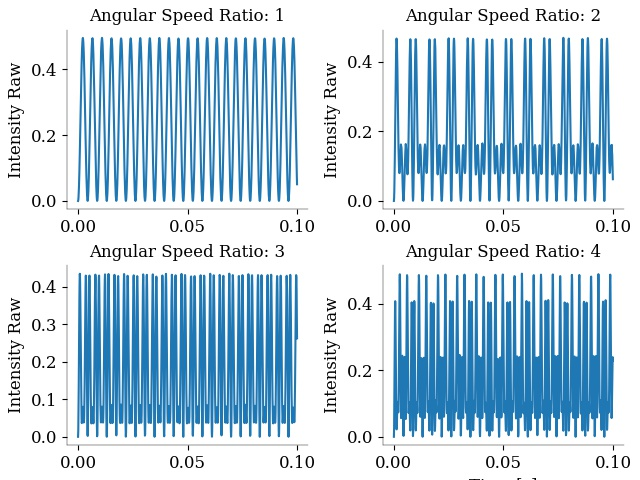
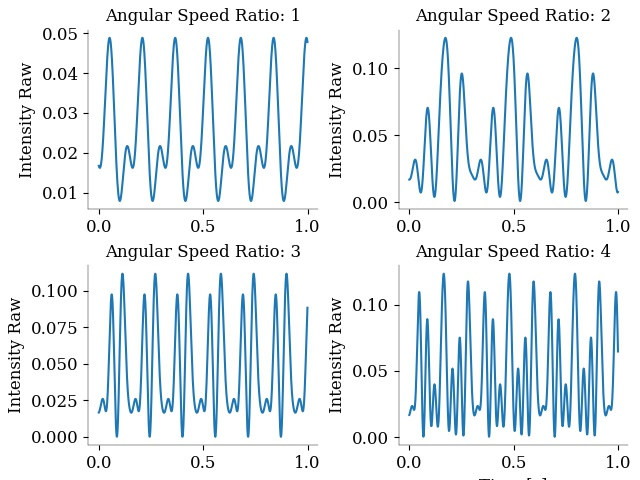
9th Edition: Structured some parts of code to make more readable.

diff --git a/muller_calculations.py b/muller_calculations.py
@@ -1,5 +1,9 @@
 from collections import defaultdict
+import matplotlib.pyplot as plt
 import numpy as np
+from tqdm import tqdm
+from numpy.linalg import inv
+from scipy import linalg
 
 
 class MullerOperators:
@@ -23,6 +27,26 @@ class MullerOperators:
         linear_polarizer = 0.5 * np.array(self.muller_matrix(self.pl_type))
 
         return linear_polarizer
+
+    def general_wave_plate(self):
+
+        gwp11 = np.cos(2*self.teta)**2 + (np.sin(2*self.teta)**2)*np.cos(self.sigma)
+        gwp12 = np.cos(2*self.teta)*np.sin(2*self.teta)*(1-np.cos(self.sigma))
+        gwp13 = np.sin(2*self.teta)*np.sin(self.sigma)
+
+        gwp21 = np.cos(2*self.teta)*np.sin(2*self.teta)*(1-np.cos(self.sigma))
+        gwp22 = np.sin(2*self.teta)**2 + (np.cos(2*self.teta)**2)*np.cos(self.sigma)
+        gwp23 = -np.cos(2*self.teta)*np.sin(self.sigma)
+
+        gwp31 = -np.sin(2*self.teta)*np.sin(self.sigma)
+        gwp32 = np.cos(2*self.teta)*np.sin(self.sigma)
+        gwp33 = np.cos(self.sigma)
+
+        gwp = np.array([[1, 0, 0, 0],
+                        [0, gwp11, gwp12, gwp13],
+                        [0, gwp21, gwp22, gwp23],
+                        [0, gwp31, gwp32, gwp33]], np.float64)
+        return gwp*0.5
 
     def rotation_matrix(self, sign) -> np.ndarray:
 
@@ -51,12 +75,22 @@ class MullerOperators:
         muller['LP_0'] = np.array([[1, 1, 0, 0],
                                    [1, 1, 0, 0],
                                    [0, 0, 0, 0],
-                                   [0, 0, 0, 0]], np.float64)
+                                   [0, 0, 0, 0]], np.float64)                     # Horizontal Linear Polarizer
 
-        muller['LP_90'] = np.array([[1, -1, 0, 0],
+        muller['LP_90'] = np.array([[1, -1, 0, 0],                                # Vertical Linear Polarizer
                                     [-1, 1, 0, 0],
                                     [0, 0, 0, 0],
                                     [0, 0, 0, 0]], np.float64)
+
+        muller['LP_-45'] = np.array([[1, 0, -1, 0],                               # -45 transmission Linear Polarizer
+                                     [0, 0, 0, 0],
+                                     [-1, 0, 1, 0],
+                                     [0, 0, 0, 0]], np.float64)
+
+        muller['LP_+45'] = np.array([[1, 0, 1, 0],                                # +45 transmission Linear Polarizer
+                                     [0, 0, 0, 0],
+                                     [1, 0, 1, 0],
+                                     [0, 0, 0, 0]], np.float64)
 
         # Additional elements should be added here to be used in the simulation
         muller['M_x'] = np.array([[1, 0, 0, 0],
@@ -88,11 +122,11 @@ def transfer_matrix(theta1: any,
     transform: Intensity of the light at CCD
     """
 
-    t_1 = MullerOperators(theta1, retardance1, 'LP_0')
-    w_1 = t_1.wave_plate()                                      # Wave plate transfer matrix at specified angle
+    t_1 = MullerOperators(theta1, retardance1, 'LP_+45')
+    w_1 = t_1.general_wave_plate()                                      # Wave plate transfer matrix at specified angle
     p_1 = t_1.linear_polarizer()                                # Linear polarizer transfer matrix at specified angle
-    t_2 = MullerOperators(theta2, retardance2, 'LP_90')
-    w_2 = t_2.wave_plate()                                      # Wave plate transfer matrix at specified angle
+    t_2 = MullerOperators(theta2, retardance2, 'LP_-45')
+    w_2 = t_2.general_wave_plate()                                      # Wave plate transfer matrix at specified angle
     p_2 = t_2.linear_polarizer()                                # Linear polarizer transfer matrix at specified angle
 
     s_out = p_2 @ w_2 @ w_1 @ p_1 @ incident
@@ -150,14 +184,14 @@ def run_simulation(t_experiment: float,
     theta1 = generate_rotation(t_array, omega_1, inverse=False)
     theta2 = generate_rotation(t_array, omega_2, inverse=False)
 
-    noise = np.random.normal(0, 0.001, len(theta1))
+    noise = np.random.normal(0, 0.000, len(theta1))
     theta1_n = theta1 + noise
     theta2_n = theta2 + noise
 
     for i, j in enumerate(t_array):                                              # This needs to be VECTORIZED later on
 
-        retardance1 = 133 + np.random.normal(0, 0.01, 1)
-        retardance2 = 71 + np.random.normal(0, 0.01, 1)
+        retardance1 = 133 + np.random.normal(0, 0.00, 1)
+        retardance2 = 71 + np.random.normal(0, 0.00, 1)
 
         ccd_s.append(transfer_matrix(theta1_n[i],
                                      theta2_n[i],
@@ -166,3 +200,196 @@ def run_simulation(t_experiment: float,
                                      s_0))                                       # This needs to be VECTORIZED later on
 
     return ccd_s, t_array
+
+
+def modulation_matrix(theta1: any,
+                      theta2: any,
+                      retardance1: any,
+                      retardance2: any) -> np.ndarray:
+    """
+    This function uses muller operations from the
+    class Muller_operators and imitates behavior of
+    the experimental optical setup. Incident light
+    is transformed through series of linear operators.
+
+    Parameters:
+    __________
+    angle1: rotation of the wave pallet 1
+    angle2: rotation of the wave pallet 2
+    incident: stoke vector of light emitted by laser
+
+    Return:
+    ______
+    transform: Intensity of the light at CCD
+    """
+
+    t_1 = MullerOperators(theta1, retardance1, 'LP_0')
+    w_1 = t_1.general_wave_plate()                                      # Wave plate transfer matrix at specified angle
+    p_1 = t_1.linear_polarizer()                                # Linear polarizer transfer matrix at specified angle
+    t_2 = MullerOperators(theta2, retardance2, 'LP_90')
+    w_2 = t_2.general_wave_plate()                                      # Wave plate transfer matrix at specified angle
+    p_2 = t_2.linear_polarizer()                                # Linear polarizer transfer matrix at specified angle
+    c = np.zeros((4, 4))
+
+    for k in range(0, 4):
+        for l in range(0, 4):
+            for j in range(0, 4):
+                c[k][l] += p_1[0][j]*w_1[j][k]*w_2[l][j]*p_2[j][0]
+
+    d = c
+    try:
+        inverse = np.linalg.inv(d)
+    except np.linalg.LinAlgError:
+        # print("Not Invertible")
+        return -1000
+    else:
+        # print("Invertible")
+        return np.linalg.norm(d, np.inf) * np.linalg.norm(np.linalg.inv(d), np.inf)
+
+
+def modulation_matrix2(theta1: any,
+                       theta2: any,
+                       retardance1: any,
+                       retardance2: any) -> np.ndarray:
+    """
+    This function uses muller operations from the
+    class Muller_operators and imitates behavior of
+    the experimental optical setup. Incident light
+    is transformed through series of linear operators.
+
+    Parameters:
+    __________
+    angle1: rotation of the wave pallet 1
+    angle2: rotation of the wave pallet 2
+    incident: stoke vector of light emitted by laser
+
+    Return:
+    ______
+    transform: Intensity of the light at CCD
+    """
+
+    t_1 = MullerOperators(theta1, retardance1, 'LP_-45')
+    w_1 = t_1.general_wave_plate()  # Wave plate transfer matrix at specified angle
+    p_1 = t_1.linear_polarizer()  # Linear polarizer transfer matrix at specified angle
+    t_2 = MullerOperators(theta2, retardance2, 'LP_+45')
+    w_2 = t_2.general_wave_plate()  # Wave plate transfer matrix at specified angle
+    p_2 = t_2.linear_polarizer()  # Linear polarizer transfer matrix at specified angle
+
+    s_in = [1, 0, 0, 0]
+    g = w_1 @ p_1
+    a = p_2 @ w_1
+    g_t = np.transpose(g)
+    p = np.kron(g_t, a)
+    try:
+        inverse = np.linalg.inv(p)
+    except np.linalg.LinAlgError:
+        # print("Not Invertible")
+        return -100
+    else:
+        print("Invertible")
+        return np.linalg.norm(p, np.inf)*np.linalg.norm(np.linalg.inv(p), np.inf)
+
+
+def modulation_matrix3(theta1: any,
+                       theta2: any,
+                       retardance1: any,
+                       retardance2: any) -> np.ndarray:
+    """
+    This function uses muller operations from the
+    class Muller_operators and imitates behavior of
+    the experimental optical setup. Incident light
+    is transformed through series of linear operators.
+
+    Parameters:
+    __________
+    angle1: rotation of the wave pallet 1
+    angle2: rotation of the wave pallet 2
+    incident: stoke vector of light emitted by laser
+
+    Return:
+    ______
+    transform:
+    """
+
+    c = np.zeros((4, 4))
+# ______________________________________________________________________________________________________________________
+
+    c[0][0] = 1
+
+    c[0][1] = np.cos(2*theta1)**2 + np.cos(retardance1)*np.sin(2*theta1)**2
+
+    c[0][2] = np.cos(2*theta1)*np.sin(2*theta1) - np.cos(retardance1)*np.cos(2*theta1)*np.sin(2*retardance1)
+
+    c[0][3] = np.sin(retardance1)*np.sin(2*theta1)
+
+# ______________________________________________________________________________________________________________________
+
+    c[1][0] = -(np.cos(2*theta2)**2 - np.cos(retardance2)*np.sin(2*theta2)**2)
+
+    c[1][1] = -(np.cos(2*theta2)**2 - np.cos(retardance2)*np.sin(2*theta2)**2) * \
+               (np.cos(2*theta1)**2 + np.cos(retardance1)*np.sin(2*theta1)**2)
+
+    c[1][2] = -(np.cos(2*theta2)**2 - np.cos(retardance2)*np.sin(2*theta2)**2) * \
+               (np.cos(2*theta1)*np.sin(2*theta1) - np.cos(retardance1)*np.cos(2*theta1)*np.sin(2*retardance1))
+
+    c[1][3] = -(np.sin(retardance1)*np.sin(2*theta1)) * \
+               (np.cos(2*theta2)**2 - np.cos(retardance2)*np.sin(2*theta2)**2)
+
+# ______________________________________________________________________________________________________________________
+
+    c[2][0] = np.cos(retardance2)*np.cos(2*theta2)*np.sin(2*theta2) - np.cos(2*theta2)*np.sin(2*theta2)
+
+    c[2][1] = -(np.cos(2*theta1)**2 + np.cos(retardance1)*np.sin(2*theta1)**2) *\
+               (np.cos(2*theta2)*np.sin(2*theta2) - np.cos(retardance2)*np.cos(2*theta2)*np.sin(2*theta2))
+
+    c[2][2] = -(np.cos(2*theta2)*np.sin(2*theta2) - np.cos(retardance2)*np.cos(2*theta2)*np.sin(2*theta2)) * \
+               (np.cos(2*theta1)*np.sin(2*theta1) - np.cos(retardance2)*np.cos(2*theta1)*np.sin(2*theta1))
+
+    c[2][3] = -(np.sin(retardance1)*np.sin(2*theta1)) * \
+               (np.cos(2*theta2)*np.sin(2*theta2) - np.cos(retardance2)*np.cos(2*theta2)*np.sin(2*retardance2))
+
+# ______________________________________________________________________________________________________________________
+
+    c[3][0] = np.sin(retardance2)*np.sin(2*theta2)
+
+    c[3][1] = np.sin(retardance2)*np.sin(2*theta2)*(np.cos(2*theta1)**2 + np.cos(retardance1)*np.sin(2*theta1)**2)
+
+    c[3][2] = (np.sin(retardance2)*np.sin(2*theta2)) * \
+              (np.cos(2*theta1)*np.sin(2*theta1) - np.cos(retardance1)*np.cos(2*theta1)*np.sin(2*theta1))
+
+    c[3][3] = np.sin(retardance1)*np.sin(2*theta1)*np.sin(retardance2)*np.sin(2*theta2)
+
+# ______________________________________________________________________________________________________________________
+    c_t = np.transpose(c)
+    g = c @ c_t
+    # g_1 = inv(g)
+    # r = c_t @ g_1
+    # np.linalg.det(c_t @ c)
+    # sum(np.square(np.diagonal(c_t @ c)))
+    d = c
+    try:
+        inverse = np.linalg.inv(d)
+    except np.linalg.LinAlgError:
+        # print("Not Invertible")
+        return -100
+    else:
+        # print("Invertible")
+        return np.linalg.norm(d, np.inf) * np.linalg.norm(np.linalg.inv(d), np.inf)
+
+
+theta_1 = np.linspace(0, 180, 200)
+theta_2 = np.linspace(0, 180, 200)
+X, Y = np.meshgrid(theta_1, theta_2)
+z = np.zeros((len(theta_1), len(theta_2)))
+
+for i, x in (enumerate(theta_1)):
+    for j, y in enumerate(theta_2):
+        # print(np.square(modulation_matrix(x, y, 171, 73)))
+        # z[i][j] = np.sqrt(sum(sum(np.square(modulation_matrix2(x, y, 171, 73)))))
+        z[i][j] = (modulation_matrix2(x, y, 126, 126))
+
+
+# contours = plt.contour(X, Y, z, 3, colors='black')
+# plt.clabel(contours, inline=True, fontsize=8)
+plt.contourf(z)
+plt.show()

diff --git a/simulation_parameters.py b/simulation_parameters.py
@@ -8,8 +8,8 @@ def extract_parameters():
 
     # 1. Time Variables
     # _________________
-    t_experiment = .1                                                      # Duration of simulation [seconds]
-    sampling_rate = 100000                                                  # CCD [frames/second] or 1/s_r [Hz]
+    t_experiment = 1                                                      # Duration of simulation [seconds]
+    sampling_rate = 1000                                                  # CCD [frames/second] or 1/s_r [Hz]
     # 2. Incoming light properties
     # ____________________________
     s_0 = [1, 0, 0, 0]                                                    # Incident light in a stoke vector form
@@ -19,7 +19,7 @@ def extract_parameters():
     retardance_wp_2 = 71                                                  # Phase shift induced by optics (wave plate)
     # 4. Characteristics of optical setup (active elements)
     # ______________________________________________________
-    omega_1 = 360                                                         # Angular speed of wave plate [deg/second]
+    omega_1 = 10                                                         # Angular speed of wave plate [deg/second]
     omega_2 = 15                                                          # Angular speed of wave plate [deg/second]
     # 5. Additional Parameters to add later on
     # ______________________________________________________

diff --git a/main.py b/main.py
@@ -18,7 +18,7 @@ for i in tqdm(ratios):
 
 
 for i in ratios:
-    plt.plot(t, store_results[i] + 0.5*i)
+    plt.plot(t, store_results[i] + 0.125*i)
 
 plt.show()
 
